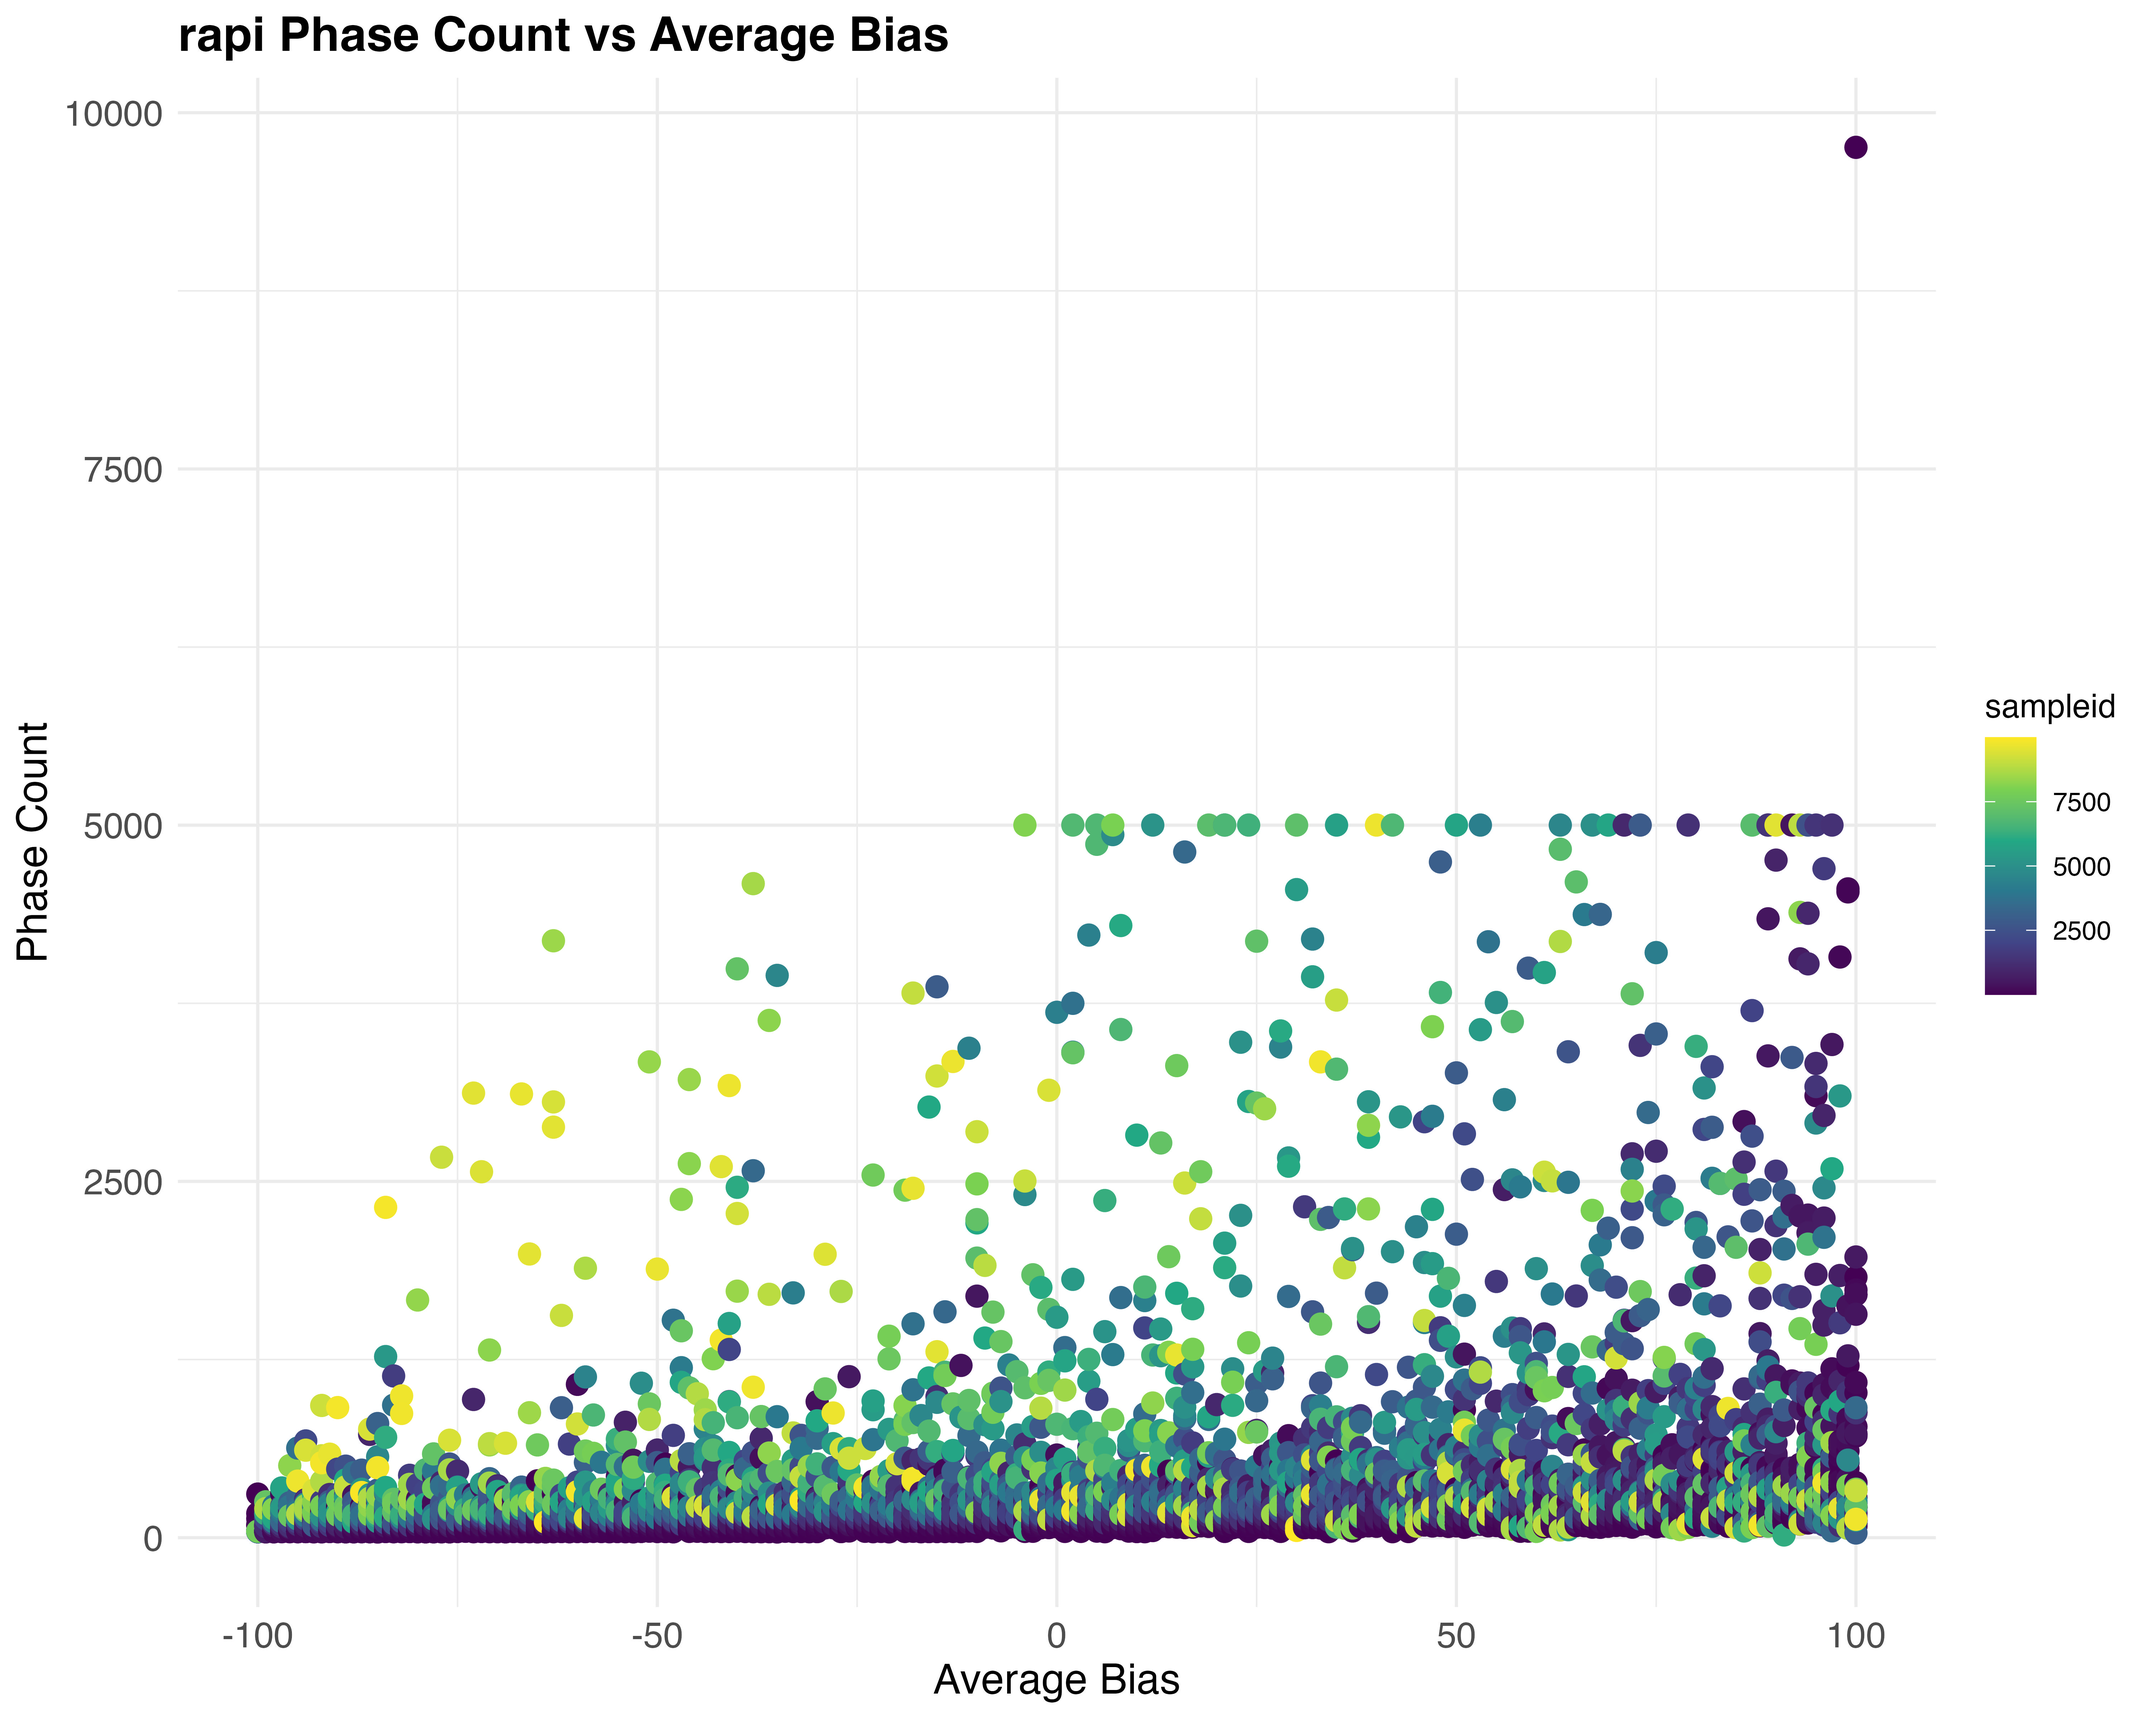
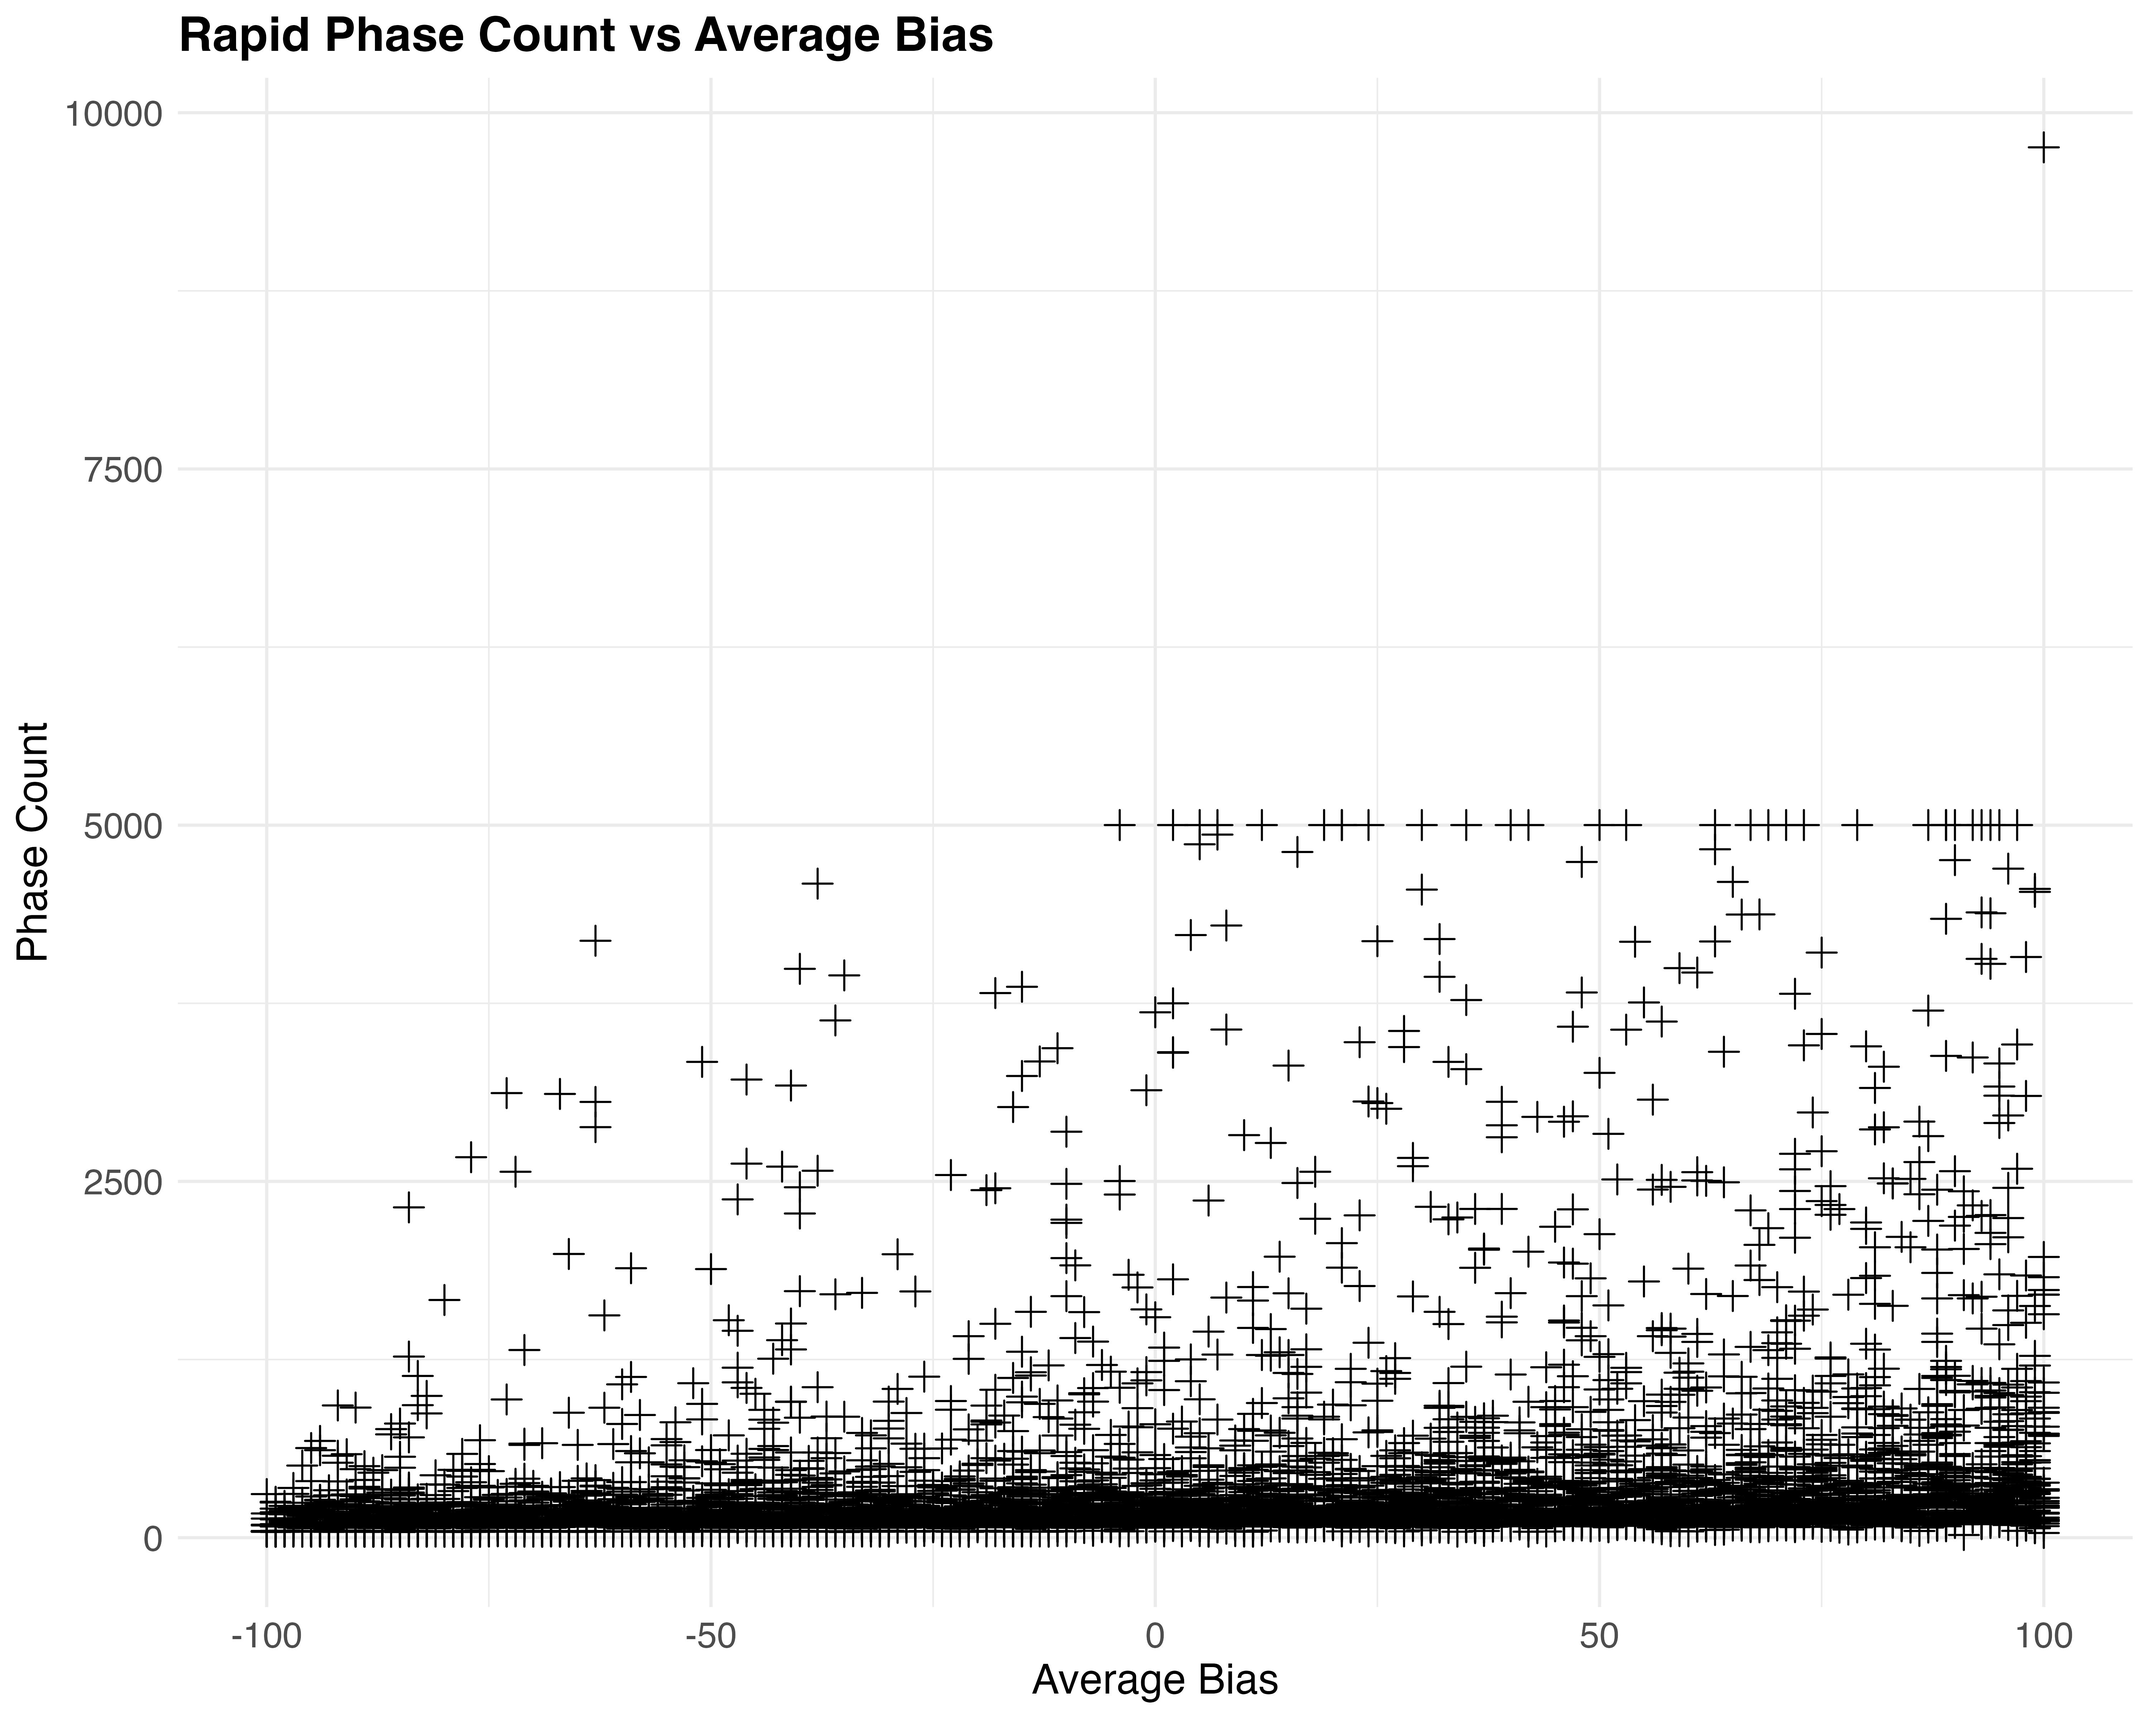
Plots Updates

diff --git a/PhaseLength.md b/PhaseLength.md
@@ -15,20 +15,20 @@ Shashank Pritam
     loading modules](#set-the-environment-by-loading-modules)
   - [<span class="toc-section-number">3.2</span> Load Data and Plot
     Result](#load-data-and-plot-result)
-- [<span class="toc-section-number">4</span> Result: Phase Counts vs
-  Average Bias](#result-phase-counts-vs-average-bias)
+- [<span class="toc-section-number">4</span> Result: Phase Length vs
+  Average Bias](#result-phase-length-vs-average-bias)
   - [<span class="toc-section-number">4.1</span> Rapid Phase Count vs
     Average Bias](#rapid-phase-count-vs-average-bias)
   - [<span class="toc-section-number">4.2</span> Shotgun Phase Count vs
     Average Bias](#shotgun-phase-count-vs-average-bias)
   - [<span class="toc-section-number">4.3</span> Inactive Phase Count vs
     Average Bias](#inactive-phase-count-vs-average-bias)
-- [<span class="toc-section-number">5</span> Result: Phase Counts vs
-  piRNA Cluster Size](#result-phase-counts-vs-pirna-cluster-size)
+- [<span class="toc-section-number">5</span> Result: Phase Count vs
+  piRNA Cluster Size](#result-phase-count-vs-pirna-cluster-size)
   - [<span class="toc-section-number">5.1</span> Rapid Phase Count vs
     piRNA Cluster Size](#rapid-phase-count-vs-pirna-cluster-size)
   - [<span class="toc-section-number">5.2</span> Shotgun Phase Count vs
-    Sampleid](#shotgun-phase-count-vs-sampleid)
+    piRNA Cluster Size](#shotgun-phase-count-vs-pirna-cluster-size)
   - [<span class="toc-section-number">5.3</span> Inactive Phase Count vs
     piRNA Cluster Size](#inactive-phase-count-vs-pirna-cluster-size)
 
@@ -105,7 +105,7 @@ combined_file_path <- "Simulation-Results_Files/simulation_storm/phaselen/20thNo
 
 # Define column names and numeric columns
 column_names <- c("rep", "gen", "popstat", "spacer_1", "fwte", "avw", "min_w", "avtes", "avpopfreq", "fixed", "spacer_2", "phase", "fwcli", "avcli", "fixcli", "spacer_3", "avbias", "3tot", "3cluster", "spacer_4", "sampleid")
-numeric_columns <- c("rep", "gen", "fwte", "avw", "min_w", "avtes", "avpopfreq", "fixed", "fwcli", "avcli", "fixcli", "avbias", "sampleid")
+numeric_columns <- c("rep", "gen", "fwte", "avw", "min_w", "avtes", "avpopfreq", "fixed", "fwcli", "avcli", "fixcli", "avbias", "sampleid", "sampleid_percent")
 
 # Read the combined data
 all_data <- read_delim(combined_file_path, delim = '\t', col_names = column_names, show_col_types = FALSE) %>%
@@ -116,30 +116,34 @@ all_data[numeric_columns] <- lapply(all_data[numeric_columns], as.numeric)
 
 # Count phases for each combination of avbias and sampleid
 phase_counts <- all_data %>%
-                group_by(avbias, sampleid, phase) %>%
+                group_by(avbias, sampleid_percent, phase) %>%
                 summarize(phase_count = n(), .groups = 'drop')
 
-# Function to create plots
-# Function to create plots
-create_plot <- function(data, phase_name, x_label, y_label) {
-    ggplot(data %>% filter(phase == phase_name), aes(x = avbias, y = phase_count)) +
-    geom_point(aes(color = sampleid), size = 3) +
-    scale_color_viridis_c() +
-    labs(title = paste(phase_name, "Phase Count vs", x_label), x = x_label, y = y_label) +
-    theme_minimal() +
-    theme(plot.title = element_text(size = 16, face = "bold"),
-          axis.title = element_text(size = 14),
-          axis.text = element_text(size = 12))
+
+# Function to create plots for phase vs avbias and phase vs sampleid
+# With '+' or 'x' signs
+create_plot <- function(data, phase_name, phase_label, x, y, x_label, y_label, use_plus_sign = TRUE) {
+    shape_type <- ifelse(use_plus_sign, 3, 4)  # Shape 3 for '+', Shape 4 for 'x'
+    
+    plot <- ggplot(data %>% filter(phase == phase_name), aes_string(x = x, y = y)) +
+            geom_point(shape = shape_type, color = "black", size = 3) +
+            labs(title = paste(phase_label, "Phase Count vs", x_label), x = x_label, y = y_label) +
+            theme_minimal() +
+            theme(plot.title = element_text(size = 16, face = "bold"),
+                  axis.title = element_text(size = 14),
+                  axis.text = element_text(size = 12))
+    return(plot)
 }
 
 # Create and save plots
-plot_rapi_avbias <- create_plot(phase_counts, "rapi", "Average Bias", "Phase Count")
-plot_shot_avbias <- create_plot(phase_counts, "shot", "Average Bias", "Phase Count")
-plot_inac_avbias <- create_plot(phase_counts, "inac", "Average Bias", "Phase Count")
+# Using '+' signs for avbias plots and 'x' signs for sampleid plots
+plot_rapi_avbias <- create_plot(phase_counts, "rapi", "Rapid", "avbias", "phase_count", "Average Bias", "Phase Count", TRUE)
+plot_shot_avbias <- create_plot(phase_counts, "shot", "Shotgun", "avbias", "phase_count", "Average Bias", "Phase Count", TRUE)
+plot_inac_avbias <- create_plot(phase_counts, "inac", "Inactive", "avbias", "phase_count", "Average Bias", "Phase Count", TRUE)
 
-plot_rapi_sampleid <- create_plot(phase_counts, "rapi", "piRNA Cluster Size", "Phase Count")
-plot_shot_sampleid <- create_plot(phase_counts, "shot", "piRNA Cluster Size", "Phase Count")
-plot_inac_sampleid <- create_plot(phase_counts, "inac", "piRNA Cluster Size", "Phase Count")
+plot_rapi_sampleid <- create_plot(phase_counts, "rapi", "Rapid", "sampleid_percent", "phase_count", "piRNA Cluster Size", "Phase Count", FALSE)
+plot_shot_sampleid <- create_plot(phase_counts, "shot", "Shotgun", "sampleid_percent", "phase_count", "piRNA Cluster Size", "Phase Count", FALSE)
+plot_inac_sampleid <- create_plot(phase_counts, "inac", "Inactive", "sampleid_percent", "phase_count", "piRNA Cluster Size", "Phase Count", FALSE)
 
 # Define images path
 images_path <- "images"
@@ -156,7 +160,7 @@ ggsave(filename = file.path(images_path, "phase_count_inac_sampleid.jpg"), plot 
 
 </details>
 
-## Result: Phase Counts vs Average Bias
+## Result: Phase Length vs Average Bias
 
 ### Rapid Phase Count vs Average Bias
 
@@ -172,14 +176,14 @@ Bias](images/phase_count_shot_avbias.jpg)
 ![Inactive Phase Count vs Average
 Bias](images/phase_count_inac_avbias.jpg)
 
-## Result: Phase Counts vs piRNA Cluster Size
+## Result: Phase Count vs piRNA Cluster Size
 
 ### Rapid Phase Count vs piRNA Cluster Size
 
 ![Rapid Phase Count vs piRNA Cluster
 Size](images/phase_count_rapi_sampleid.jpg)
 
-### Shotgun Phase Count vs Sampleid
+### Shotgun Phase Count vs piRNA Cluster Size
 
 ![Shotgun Phase Count vs piRNA Cluster
 Size](images/phase_count_shot_sampleid.jpg)

diff --git a/Minimum_Fitness.md b/Minimum_Fitness.md
@@ -116,7 +116,7 @@ load_data <- function(folder_path, u_value) {
   df_final <- select(df_final, rep, popstat, avbias, sampleid, min_w)
   
   # Calculate sampleid_percent
-  df_final$sampleid_percent <- (df_final$sampleid / 10000000) * 100 ## At the time of writing this code the piRNA Cluster was generated in base pairs, now it is generated in kb. So to replicate this one should use 10000000/1000 instead of 10000000 to divide.
+  df_final$sampleid_percent <- (df_final$sampleid / 10000000) * 100 ## At the time of writing this code the piRNA Cluster was generated in base pairs, now it is generated in kb. So to replicate this one should use 10000/1000 instead of 10000000 to divide.
   
   # Filter out fail-0 and fail-w
   df_filtered = df_final %>% filter(!popstat %in% c("fail-0", "fail-w"))
